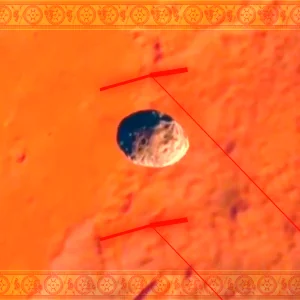
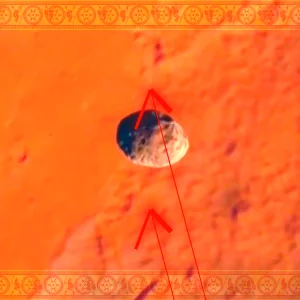
m

diff --git a/src/pages/2026/26-07/26-07-31/Clock.module.css b/src/pages/2026/26-07/26-07-31/Clock.module.css
@@ -35,6 +35,9 @@
   align-items: center;
   width: 100%;
   height: 100%;
+  /* Inset the wrapper to respect the borders */
+  padding: 10vh 0;
+  box-sizing: border-box;
 }
 
 .clockFace {
@@ -51,6 +54,8 @@
 @media (min-width: 768px) and (orientation: landscape) {
   .clocksWrapper {
     flex-direction: row;
+    /* On desktop, padding is horizontal */
+    padding: 0 10vw;
   }
   .clockFace {
     /* Each clock takes up just under half the viewport height */
